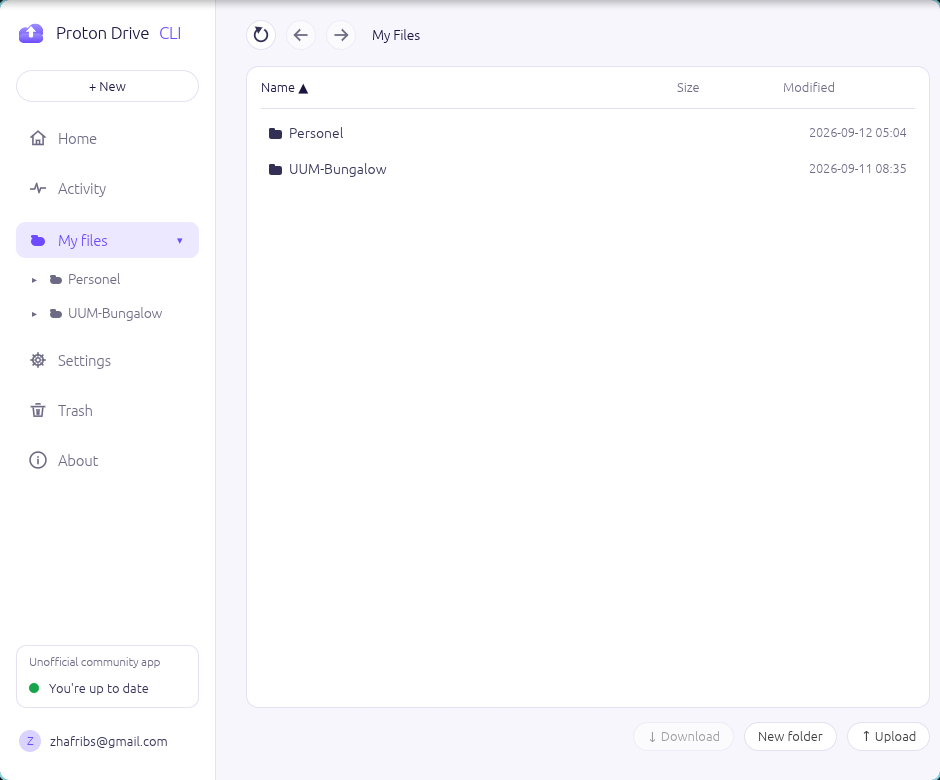
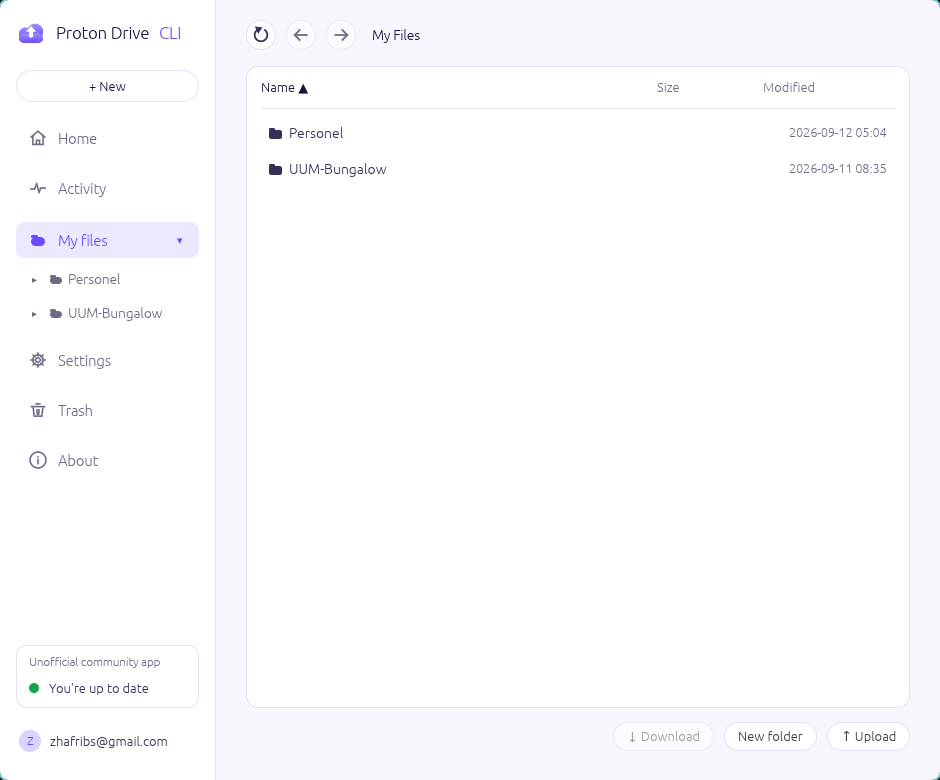
3.16.4: stable layout after window resize - breadcrumb collapses for real, header/rows share one width basis
The deep-folder + narrow-window combo broke the cloud pane: Size/Modified
headers drifted against their values and dates were clipped at the window
edge. Two rows could claim more width than the card they sit in; egui
grows a row's frame to whatever its content claims, so the table
inherited that inflated width while the header kept the real one.

- breadcrumb: collapse_segments() now actually drops middle segments
  (single "...", first/last crumbs kept, each still carrying its full
  path so navigation survives) instead of only inserting "..." once.
- table: the Name column subtracts the header cells' item_spacing, so
  header row + values + dates share one width at every window size.
- 3 new unit tests (37 total); cloud.png retaken on the fixed layout.

diff --git a/gui/src/ui/cloud.rs b/gui/src/ui/cloud.rs
@@ -859,6 +859,39 @@ fn top_icon_button(ui: &mut egui::Ui, kind: widgets::TopIcon, enabled: bool, hov
     resp.clicked()
 }
 
+/// Collapse the middle of the breadcrumb until the row fits `crumb_w`:
+/// a single "..." replaces segments (first and last crumbs are always
+/// kept), preferring to drop the ones after the "...". Each remaining
+/// crumb keeps the label and full path it arrived with.
+///
+/// The row must never outgrow `crumb_w` - anything wider here widens the
+/// pane for every widget below it (the card would be laid out on that
+/// inflated width, so header and rows end up on different bases). The
+/// width estimate is rough, hence the 16px of slack.
+fn collapse_segments(segs: &mut Vec<(String, String)>, crumb_w: f32) {
+    let est = |parts: &[(String, String)]| -> f32 {
+        parts
+            .iter()
+            .map(|(s, _)| widgets::elide(s, 34).len() as f32 * 6.9 + 8.0)
+            .sum::<f32>()
+            + 12.0
+    };
+    while segs.len() > 2 && est(segs) > crumb_w - 16.0 {
+        match segs.iter().position(|(s, _)| s == "...") {
+            Some(p) if p + 1 < segs.len() - 1 => {
+                segs.remove(p + 1);
+            }
+            Some(p) if p > 1 => {
+                segs.remove(p - 1);
+            }
+            Some(_) => break, // down to [first, "...", last]
+            None => {
+                segs.insert(segs.len() / 2, ("...".to_string(), String::new()));
+            }
+        }
+    }
+}
+
 fn top_row(app: &mut App, ui: &mut egui::Ui) {
     let (has_back, has_fwd, busy) = {
         let c = &app.cloud;
@@ -895,17 +928,22 @@ fn top_row(app: &mut App, ui: &mut egui::Ui) {
         // anymore, so long paths get maximum room before the middle
         // collapses to "...".
         let crumb_w = ui.available_width().max(120.0);
-        let est = |parts: &[String]| -> f32 {
-            parts
-                .iter()
-                .map(|s| widgets::elide(s, 34).len() as f32 * 6.9 + 8.0)
-                .sum::<f32>()
-                + 12.0
-        };
-        let mut segs = segs;
-        while segs.len() > 2 && est(&segs) > crumb_w && !segs.iter().any(|s| s == "...") {
-            segs.insert(segs.len() / 2, "...".to_string());
-        }
+        // Each crumb carries its path from the uncollapsed list, so hiding
+        // middle segments never breaks where a visible crumb points.
+        let mut segs: Vec<(String, String)> = segs
+            .iter()
+            .enumerate()
+            .map(|(i, s)| {
+                let prefix = segs[1..=i]
+                    .iter()
+                    .map(String::as_str)
+                    .filter(|x| *x != "...")
+                    .collect::<Vec<_>>()
+                    .join("/");
+                (s.clone(), prefix)
+            })
+            .collect();
+        collapse_segments(&mut segs, crumb_w);
         ui.allocate_ui_with_layout(
             egui::vec2(crumb_w, 26.0),
             egui::Layout::left_to_right(egui::Align::Center),
@@ -915,7 +953,7 @@ fn top_row(app: &mut App, ui: &mut egui::Ui) {
                     ui.label(egui::RichText::new("Trash").strong());
                     return;
                 }
-                for (i, seg) in segs.iter().enumerate() {
+                for (i, (seg, prefix)) in segs.iter().enumerate() {
                     if i > 0 {
                         ui.label(egui::RichText::new("\u{203a}").weak().size(12.0));
                     }
@@ -923,12 +961,6 @@ fn top_row(app: &mut App, ui: &mut egui::Ui) {
                         ui.add_enabled(false, egui::Button::new("...").frame_when_inactive(false));
                         continue;
                     }
-                    let parts: Vec<&str> = segs[1..=i]
-                        .iter()
-                        .map(String::as_str)
-                        .filter(|s| *s != "...")
-                        .collect();
-                    let prefix = parts.join("/");
                     let current = i == segs.len() - 1;
                     let label = widgets::elide(seg, 34);
                     if current {
@@ -944,7 +976,7 @@ fn top_row(app: &mut App, ui: &mut egui::Ui) {
                             )
                             .on_hover_text(format!("/{prefix}"));
                         if resp.clicked() {
-                            load(app, prefix, true, true, true);
+                            load(app, prefix.clone(), true, true, true);
                         }
                     }
                 }
@@ -1007,7 +1039,13 @@ fn table(app: &mut App, ui: &mut egui::Ui) {
             let col_size_w = 96.0f32;
             let col_mtime_w = 132.0f32;
             let full_w = ui.available_width();
-            let name_w = (full_w - col_size_w - col_mtime_w).max(140.0);
+            // The header row is three cells separated by item_spacing; that
+            // spacing comes out of the flexible Name column so the row adds
+            // up to exactly full_w. A row wider than the card would widen
+            // the pane for the rows below - header and rows would end up on
+            // different bases.
+            let gap = ui.spacing().item_spacing.x;
+            let name_w = (full_w - col_size_w - col_mtime_w - 2.0 * gap).max(140.0);
 
             ui.horizontal(|ui| {
                 header_cell(ui, "Name", 0, name_w, app);
@@ -1142,8 +1180,12 @@ fn row(
         if selected { visuals.selection.stroke.color } else { visuals.text_color() },
     );
     if !e.dir {
+        // Same column boundaries as the header: Name | gap | Size.
         ui.painter().text(
-            egui::pos2(rect.left() + name_w + size_w - 8.0, cy),
+            egui::pos2(
+                rect.left() + name_w + ui.spacing().item_spacing.x + size_w - 8.0,
+                cy,
+            ),
             egui::Align2::RIGHT_CENTER,
             fmt_size(e.size),
             egui::FontId::proportional(12.5),
@@ -1694,6 +1736,66 @@ fn tree_rows(app: &mut App, ui: &mut egui::Ui, parent: &str, depth: usize) {
                 ensure_children(app, &r); // the auto-open route fetches its data once
             }
             tree_rows(app, ui, &r, depth + 1);
+        }
+    }
+}
+
+#[cfg(test)]
+mod tests {
+    use super::collapse_segments;
+
+    /// What top_row feeds the collapse: (label, full path to that crumb).
+    fn crumbs() -> Vec<(String, String)> {
+        [
+            "My Files",
+            "UUM-Bungalow",
+            "Zhafri",
+            "Worker Document",
+            "E&Z WB Venture (Airconditioner)",
+            "Ibrani",
+        ]
+        .iter()
+        .map(|s| (s.to_string(), s.to_string()))
+        .collect()
+    }
+
+    #[test]
+    fn wide_enough_keeps_every_crumb() {
+        let mut segs = crumbs();
+        collapse_segments(&mut segs, 4000.0);
+        assert_eq!(segs.len(), 6);
+        assert!(!segs.iter().any(|(s, _)| s == "..."));
+    }
+
+    #[test]
+    fn narrow_collapses_but_keeps_both_ends() {
+        let mut segs = crumbs();
+        let first = segs[0].clone();
+        let last = segs[segs.len() - 1].clone();
+        collapse_segments(&mut segs, 400.0);
+        // Exactly one ellipsis, and the ends of the path are untouched.
+        assert_eq!(segs.iter().filter(|(s, _)| s == "...").count(), 1);
+        assert_eq!(segs.first(), Some(&first));
+        assert_eq!(segs.last(), Some(&last));
+        // Never below [first, "...", last].
+        assert!(segs.len() >= 3);
+    }
+
+    #[test]
+    fn survivors_keep_their_original_paths() {
+        let mut segs: Vec<(String, String)> = (1..=8)
+            .map(|i| (format!("segment-{i:02}"), format!("UUM-Bungalow/folder/{i}")))
+            .collect();
+        let original: Vec<(String, String)> = segs.clone();
+        collapse_segments(&mut segs, 300.0);
+        assert!(segs.len() < original.len());
+        // Every surviving crumb still carries the path it arrived with, so
+        // hiding middle segments never breaks navigation.
+        for (s, p) in &segs {
+            if s == "..." {
+                continue;
+            }
+            assert!(original.contains(&(s.clone(), p.clone())));
         }
     }
 }

diff --git a/gui/src/main.rs b/gui/src/main.rs
@@ -26,7 +26,7 @@ use eframe::egui;
 use std::path::{Path, PathBuf};
 
 /// The GUI's own version (the release tag is `v<CLI>-gui<GUI>`).
-pub const GUI_VERSION: &str = "3.16.3";
+pub const GUI_VERSION: &str = "3.16.4";
 
 /// The systemd user unit path (shared with `service.rs`).
 pub fn service_unit_path() -> PathBuf {

diff --git a/README.md b/README.md
@@ -14,19 +14,19 @@ setup, no Qt — the app and its sync runtime travel inside the AppImage.
 > Unofficial. Not affiliated with, endorsed by, sponsored or supported by
 > Proton AG. "Proton Drive" is a trademark of Proton AG.
 
-**Get it:** [`ProtonDrive-CLI-0.9.0-GUI-3.16.3-x86_64.AppImage`](https://github.com/zhafribs/Proton-Drive-Linux-Cli/releases/latest)
+**Get it:** [`ProtonDrive-CLI-0.9.0-GUI-3.16.4-x86_64.AppImage`](https://github.com/zhafribs/Proton-Drive-Linux-Cli/releases/latest)
 (≈80 MB · x86_64 · [all releases](https://github.com/zhafribs/Proton-Drive-Linux-Cli/releases))
 
 | Inside the file | Version |
 | --- | --- |
 | Proton Drive CLI — official, unmodified, SHA-512-verified at build | **0.9.0** (2026-10-05) |
-| Desktop app + folder-sync engine (this repo) | **3.16.3** |
+| Desktop app + folder-sync engine (this repo) | **3.16.4** |
 
 ## Start here
 
 1. Download the AppImage and make it executable once:
    ```bash
-   chmod +x ProtonDrive-CLI-0.9.0-GUI-3.16.3-x86_64.AppImage
+   chmod +x ProtonDrive-CLI-0.9.0-GUI-3.16.4-x86_64.AppImage
    ```
 2. Double-click it. Click **Sign in** — Proton's official login opens in a
    terminal (that's how their CLI does 2FA); the app picks the session up.
@@ -42,9 +42,9 @@ Fedora 32 era or newer). If it won't start you're missing FUSE — Arch
 The upstream CLI is untouched — arguments pass straight through:
 
 ```bash
-./ProtonDrive-CLI-0.9.0-GUI-3.16.3-x86_64.AppImage --help
-./ProtonDrive-CLI-0.9.0-GUI-3.16.3-x86_64.AppImage auth login   # the app's sign-in
-./ProtonDrive-CLI-0.9.0-GUI-3.16.3-x86_64.AppImage filesystem list /
+./ProtonDrive-CLI-0.9.0-GUI-3.16.4-x86_64.AppImage --help
+./ProtonDrive-CLI-0.9.0-GUI-3.16.4-x86_64.AppImage auth login   # the app's sign-in
+./ProtonDrive-CLI-0.9.0-GUI-3.16.4-x86_64.AppImage filesystem list /
 ```
 
 `auth login`, `filesystem …`, `sharing …`, `photo timeline`, `takeout run …` —

diff --git a/CHANGELOG.md b/CHANGELOG.md
@@ -1,3 +1,19 @@
+## 3.16.4 — 2026-10-21
+
+- **The file list stays aligned after you shrink the window.** Going deep
+  into folders while the window was stretched and then narrowing it left
+  Size and Modified misaligned against their values, dates clipped at the
+  window edge and the address bar running past the pane. Two rows could
+  claim more width than the card they sit in: the breadcrumb's collapse
+  step inserted "..." without ever dropping a segment, and the header row
+  forgot the spacing between its three cells - egui grows a row's frame
+  to whatever its content claims, so the table inherited that inflated
+  width while the header kept the real one. The breadcrumb now actually
+  drops middle segments (first and last crumbs always kept, each still
+  pointing at its full path) and the Name column subtracts the cell
+  spacing, so header, values and dates share one width at every window
+  size.
+
 ## 3.16.3 — 2026-10-20
 
 - **Folder changes finally show their name.** The engine logs whole-subtree
